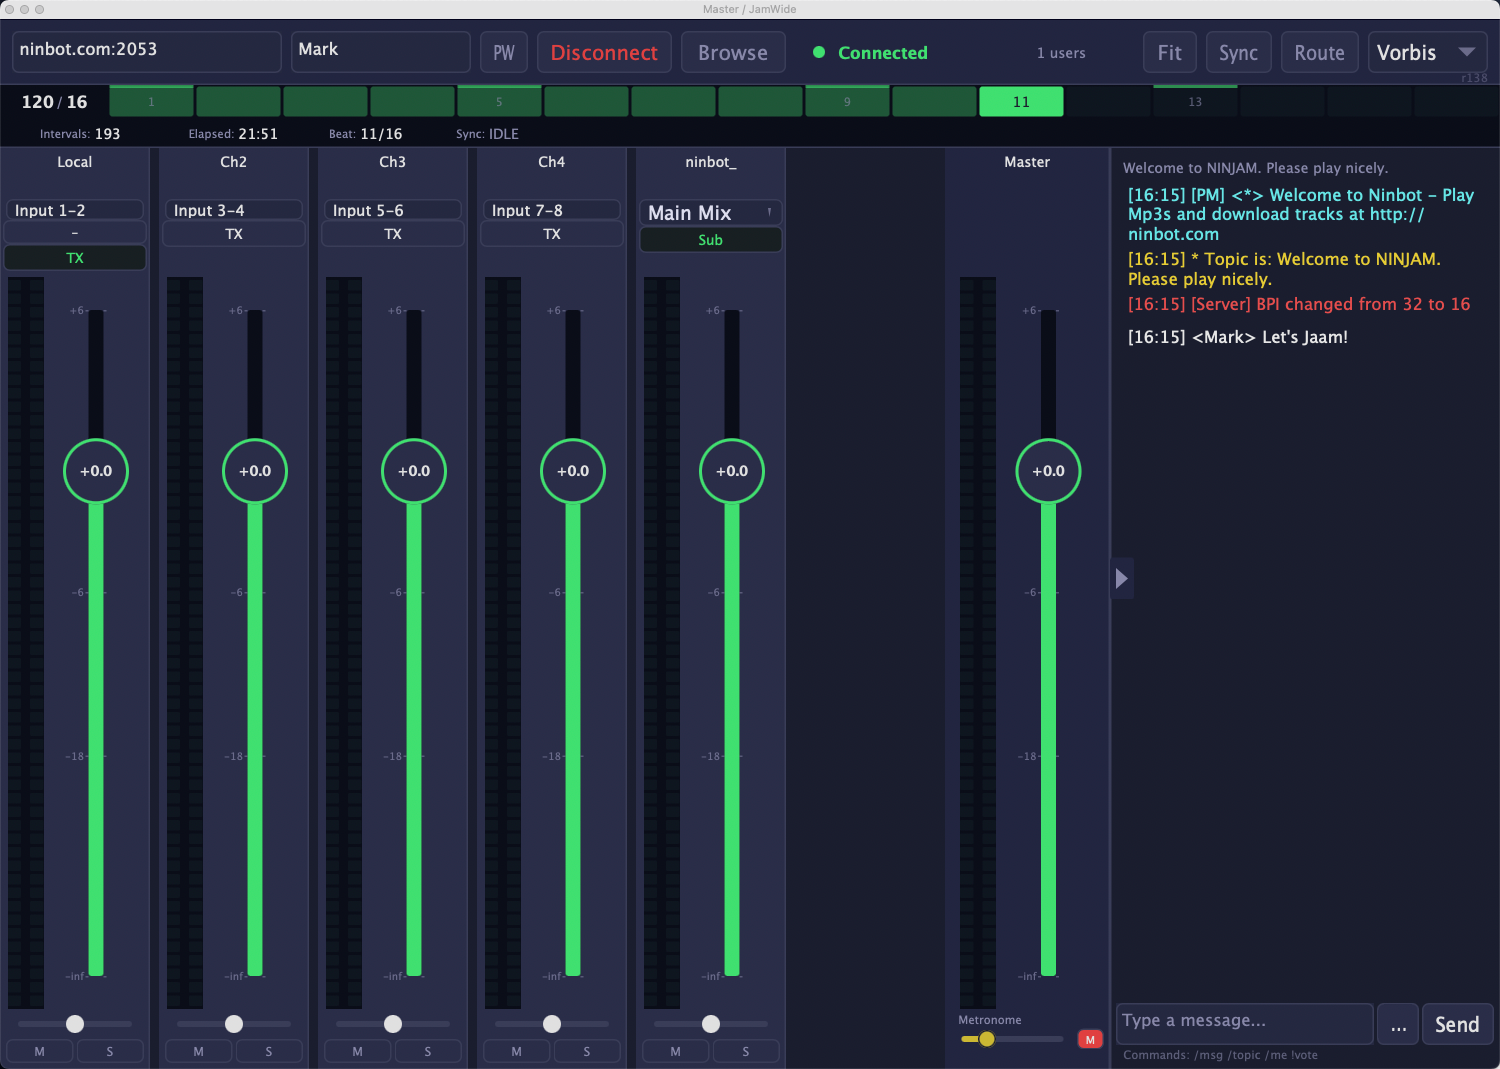
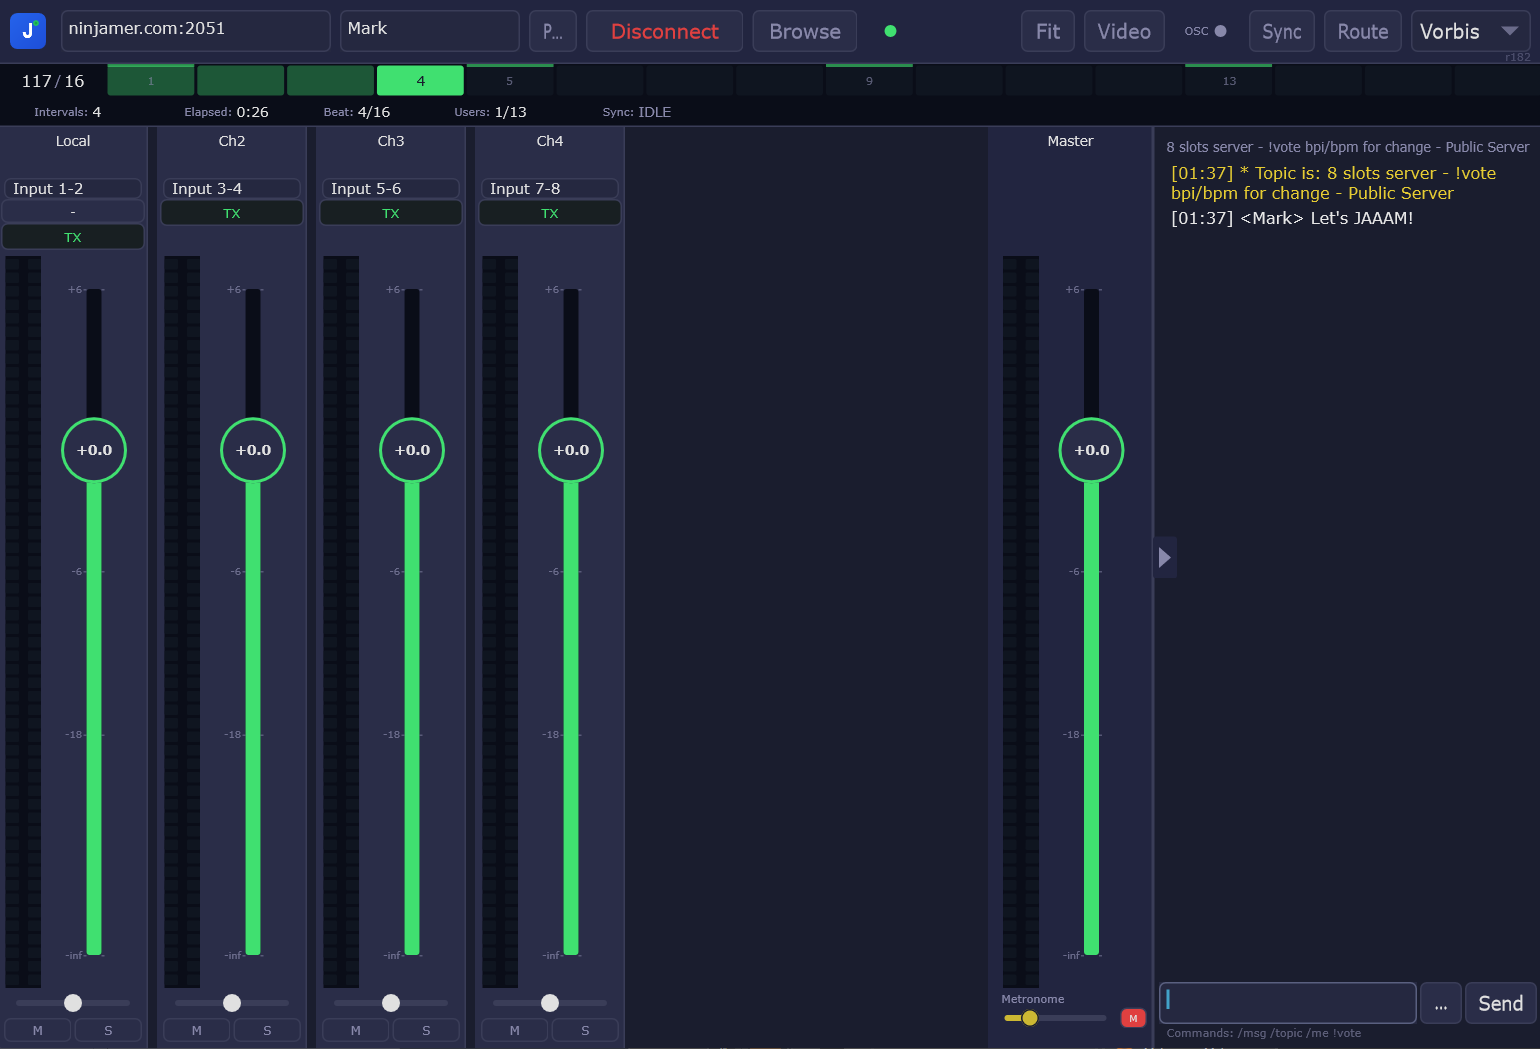
docs: refresh homepage screenshot and make it responsive
- Replace screenshot-main.png (both asset paths — the src/screenshot/
  copy referenced by index.md and the assets/images/ copy referenced
  elsewhere) with the current v1.1-beta.9 UI showing the widened
  Disconnect/Video buttons, the status dot replacing the label, the
  8px OSC dot, and the Users: N/M count.
- Wrap the homepage screenshot in <div class="screenshot"> instead of
  plain Markdown image syntax so it picks up the existing
  max-width:100% / rounded / shadowed responsive styling from
  style.scss (.screenshot rule).

diff --git a/docs/index.md b/docs/index.md
@@ -22,7 +22,9 @@ JamWide brings [NINJAM](https://www.cockos.com/ninjam/) — the open-source inte
 
 Load JamWide, connect to a server, and start jamming with musicians around the globe. Built with [JUCE](https://juce.com/) for native performance on macOS, Windows, and Linux.
 
-![JamWide Plugin Interface](assets/screenshot/screenshot-main.png)
+<div class="screenshot">
+  <img src="assets/screenshot/screenshot-main.png" alt="JamWide Plugin Interface" />
+</div>
 
 ---
 
